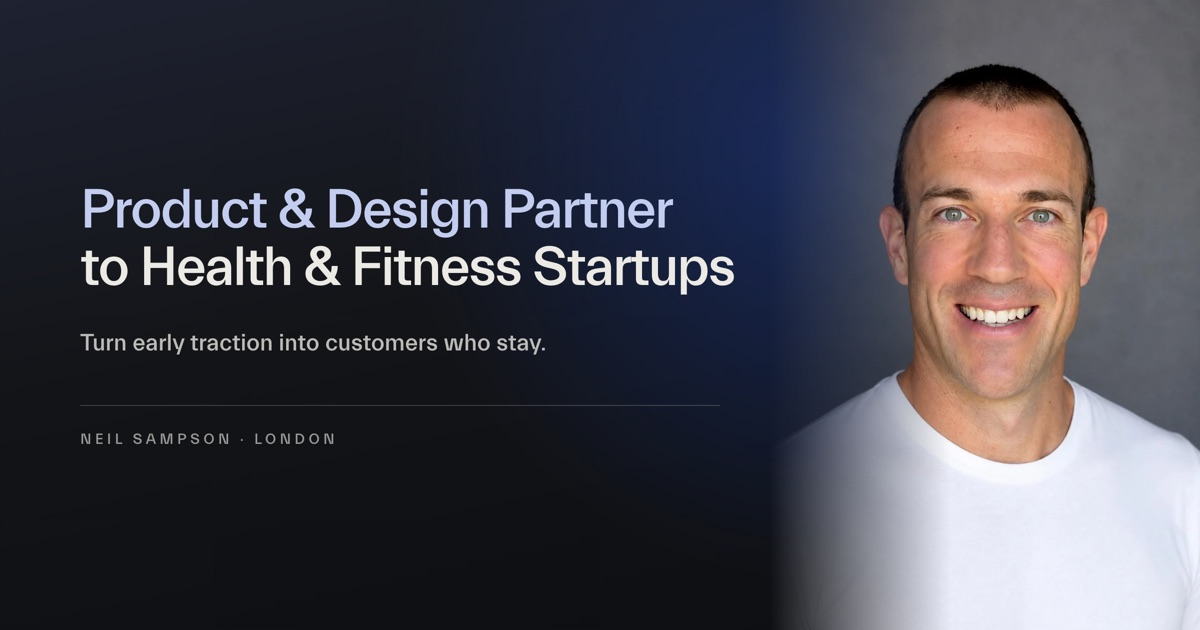
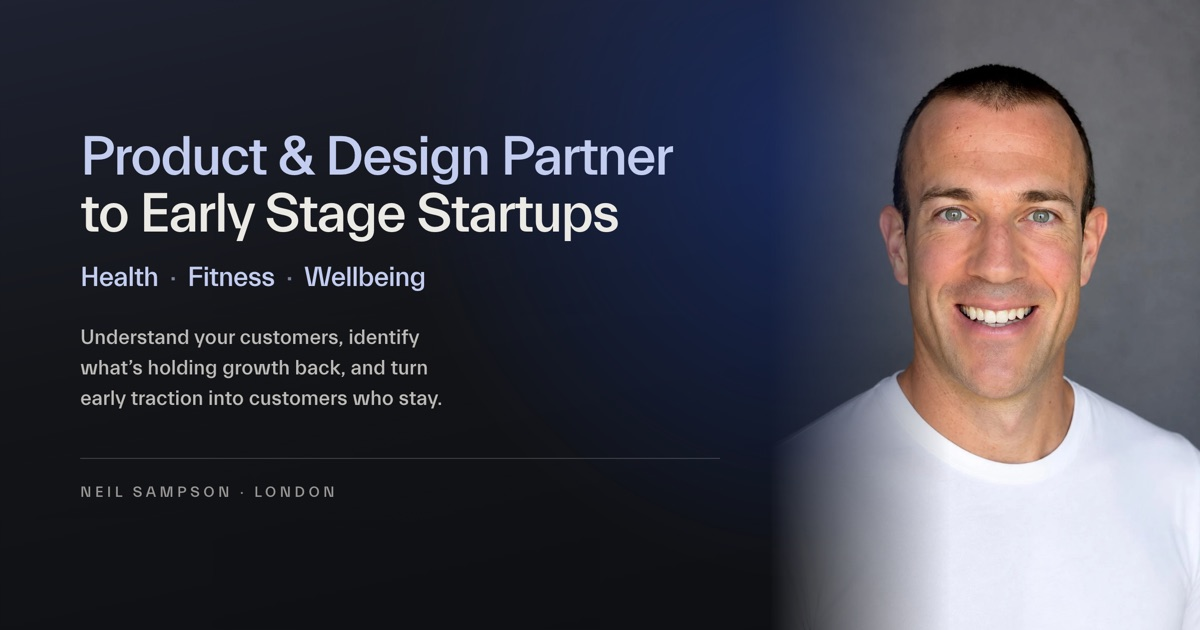
Update metadata and share card to the early stage positioning
The title, description, structured data and image alt text now match the
new hero. The share card is redrawn with the new headline, sectors and
subtitle under a new filename, and copied over the old names so cached
previews pick it up.

diff --git a/index.html b/index.html
@@ -12,31 +12,31 @@
   gtag('config', 'G-JVE686CDKP');
 </script>
 <meta name="viewport" content="width=device-width, initial-scale=1">
-<title>Product &amp; Design Partner to Health &amp; Fitness Startups | Neil Sampson</title>
-<meta name="description" content="Product and design partner to health &amp; fitness startups. Turn early traction into customers who stay.">
+<title>Product &amp; Design Partner to Early Stage Startups | Neil Sampson</title>
+<meta name="description" content="Product and design partner to early stage health, fitness and wellbeing startups. Understand your customers, identify what&#8217;s holding growth back, and turn early traction into customers who stay.">
 <link rel="canonical" href="https://neil-sampson.com/">
 
 <meta property="og:type" content="website">
 <meta property="og:site_name" content="Neil Sampson">
 <meta property="og:locale" content="en_GB">
-<meta property="og:title" content="Product &amp; Design Partner to Health &amp; Fitness Startups | Neil Sampson">
-<meta property="og:description" content="Product and design partner to health &amp; fitness startups. Turn early traction into customers who stay.">
+<meta property="og:title" content="Product &amp; Design Partner to Early Stage Startups | Neil Sampson">
+<meta property="og:description" content="Product and design partner to early stage health, fitness and wellbeing startups. Understand your customers, identify what&#8217;s holding growth back, and turn early traction into customers who stay.">
 <meta property="og:url" content="https://neil-sampson.com/">
 <meta name="twitter:card" content="summary_large_image">
-<meta name="twitter:title" content="Product &amp; Design Partner to Health &amp; Fitness Startups | Neil Sampson">
-<meta name="twitter:description" content="Product and design partner to health &amp; fitness startups. Turn early traction into customers who stay.">
-<meta property="og:image" content="https://neil-sampson.com/assets/share-card-partner.jpg">
+<meta name="twitter:title" content="Product &amp; Design Partner to Early Stage Startups | Neil Sampson">
+<meta name="twitter:description" content="Product and design partner to early stage health, fitness and wellbeing startups. Understand your customers, identify what&#8217;s holding growth back, and turn early traction into customers who stay.">
+<meta property="og:image" content="https://neil-sampson.com/assets/share-card-early-stage.jpg">
 <meta property="og:image:width" content="1200">
 <meta property="og:image:height" content="630">
-<meta property="og:image:alt" content="Neil Sampson, product and design partner to health &amp; fitness startups: turn early traction into customers who stay">
-<meta name="twitter:image" content="https://neil-sampson.com/assets/share-card-partner.jpg">
+<meta property="og:image:alt" content="Neil Sampson, product and design partner to early stage startups in health, fitness and wellbeing">
+<meta name="twitter:image" content="https://neil-sampson.com/assets/share-card-early-stage.jpg">
 
 <script type="application/ld+json">
 {
   "@context": "https://schema.org",
   "@type": "ProfessionalService",
   "name": "Neil Sampson",
-  "description": "Product and design partner to health & fitness startups. Turn early traction into customers who stay.",
+  "description": "Product and design partner to early stage health, fitness and wellbeing startups. Understand your customers, identify what’s holding growth back, and turn early traction into customers who stay.",
   "url": "https://neil-sampson.com/",
   "areaServed": "GB",
   "provider": {

diff --git a/tools/share-card.html b/tools/share-card.html
@@ -2,7 +2,7 @@
 <meta charset="utf-8">
 <title>Share card</title>
 <!--
-  Source for assets/share-card-partner.jpg, the Open Graph image.
+  Source for assets/share-card-early-stage.jpg, the Open Graph image.
 
   It mirrors the homepage hero: the same 168deg ground gradient, the same blue
   glow, Everett from /fonts, and the headline with its first sentence in
@@ -13,10 +13,10 @@
       --window-size=1200,630 --screenshot=/tmp/card-2x.png \
       "file://$PWD/tools/share-card.html"
     sips -z 630 1200 /tmp/card-2x.png --setProperty format jpeg \
-      --setProperty formatOptions 82 --out assets/share-card-partner.jpg
+      --setProperty formatOptions 82 --out assets/share-card-early-stage.jpg
 
   Rendering at 2x and halving keeps the type crisp. Copy the result over
-  assets/share-card.jpg, share-card-decisions.jpg, share-card-2026.jpg, share-card-clarity.jpg,
+  assets/share-card.jpg, share-card-partner.jpg, share-card-decisions.jpg, share-card-2026.jpg, share-card-clarity.jpg,
   share-card-shape.jpg, share-card-leader.jpg and share-card-founders.jpg too: previews cache by URL,
   so the old names have to keep serving the current picture. When the design changes materially, give it a new filename and
   repoint og:image/twitter:image, or caches will hold the old one.
@@ -109,8 +109,8 @@
     margin-bottom: 26px;
   }
 
-  /* Two set lines, echoing the desktop hero. 56px holds the longer, "to
-     Health & Fitness Startups", well clear of the portrait. */
+  /* Two set lines, echoing the desktop hero. 56px holds the longer,
+     "Product & Design Partner", well clear of the portrait. */
   h1 {
     font-size: 56px;
     font-weight: 500;
@@ -120,13 +120,23 @@
   }
   h1 em { font-style: normal; color: var(--blue-pale); }
 
+  /* The sectors, a step down from the headline, as on the hero. */
+  .sectors {
+    margin-top: 18px;
+    font-size: 28px;
+    font-weight: 500;
+    letter-spacing: -.02em;
+    color: var(--blue-pale);
+  }
+  .sectors span { margin: 0 .2em; opacity: .6; }
+
   .lead {
-    margin-top: 30px;
-    font-size: 24px;
+    margin-top: 28px;
+    font-size: 21px;
     font-weight: 500;
     line-height: 1.45;
     color: rgba(236, 234, 228, .78);
-    max-width: 36ch;
+    max-width: 40ch;
     text-wrap: balance;
   }
 
@@ -156,8 +166,9 @@
 </div>
 
 <div class="inner">
-  <h1><em>Product &amp; Design Partner</em><br>to Health &amp; Fitness Startups</h1>
-  <p class="lead">Turn early traction into customers who stay.</p>
+  <h1><em>Product &amp; Design Partner</em><br>to Early Stage Startups</h1>
+  <p class="sectors">Health <span>&#183;</span> Fitness <span>&#183;</span> Wellbeing</p>
+  <p class="lead">Understand your customers, identify what&#8217;s holding growth back, and turn early traction into customers who stay.</p>
   <div class="rule"></div>
   <div class="colophon">Neil Sampson &#183; London</div>
 </div>
